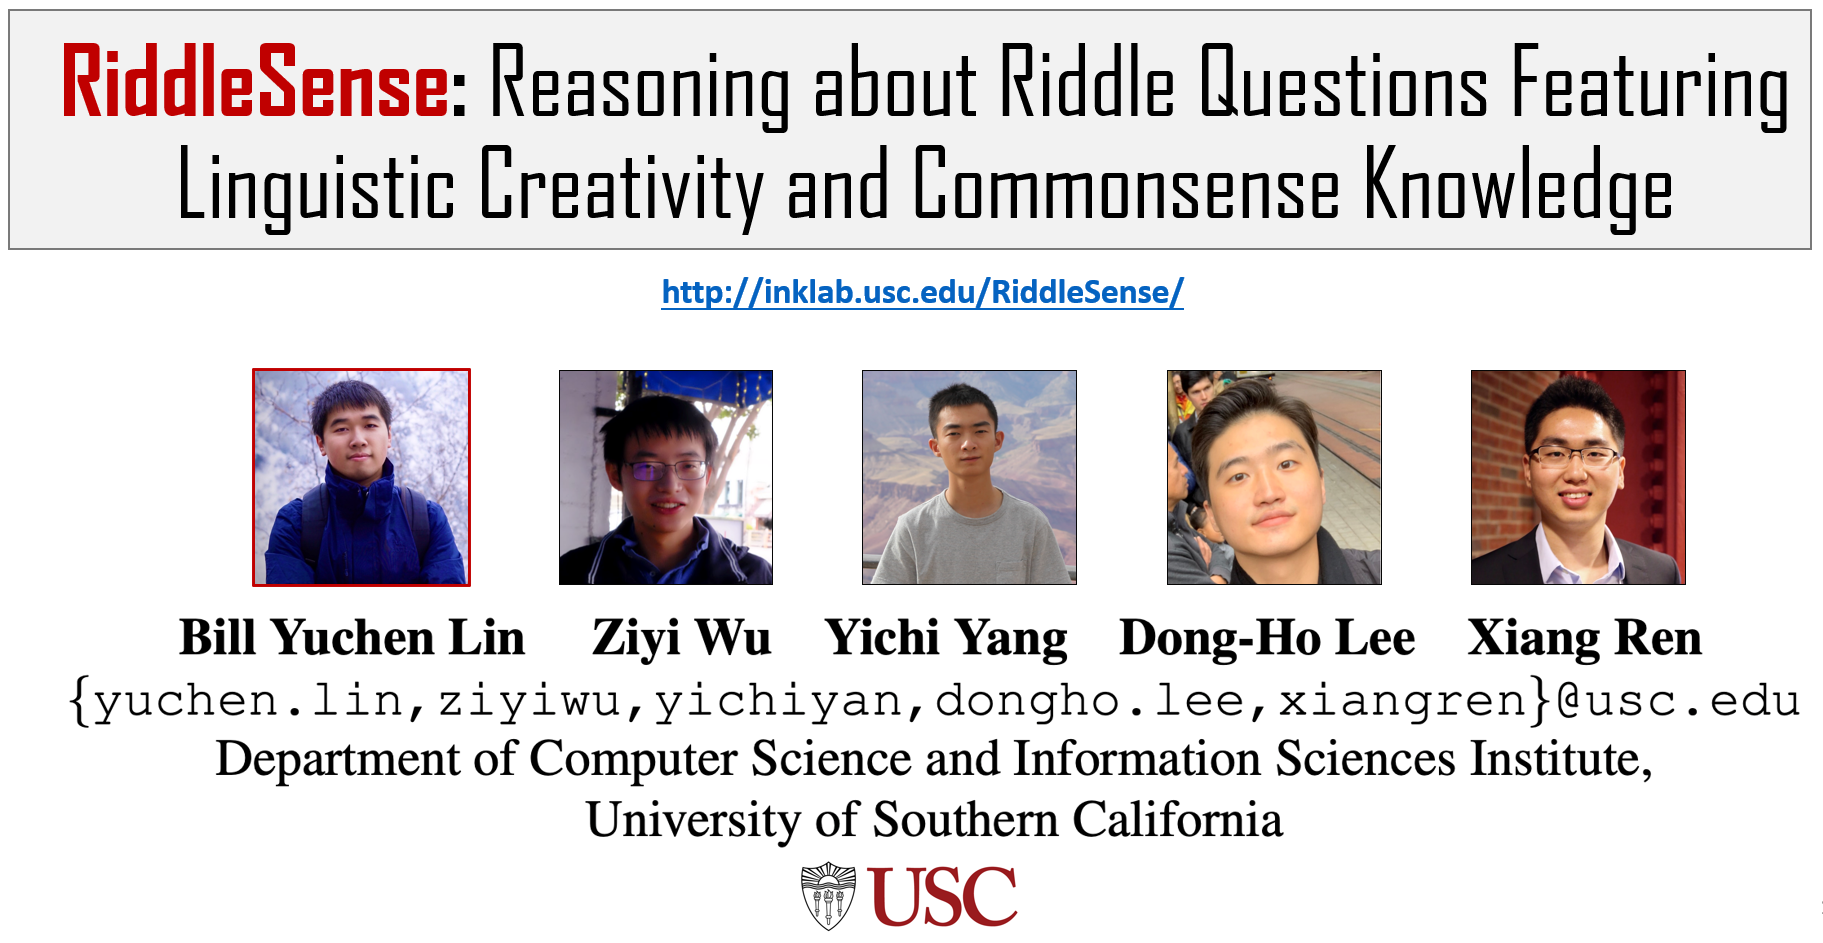
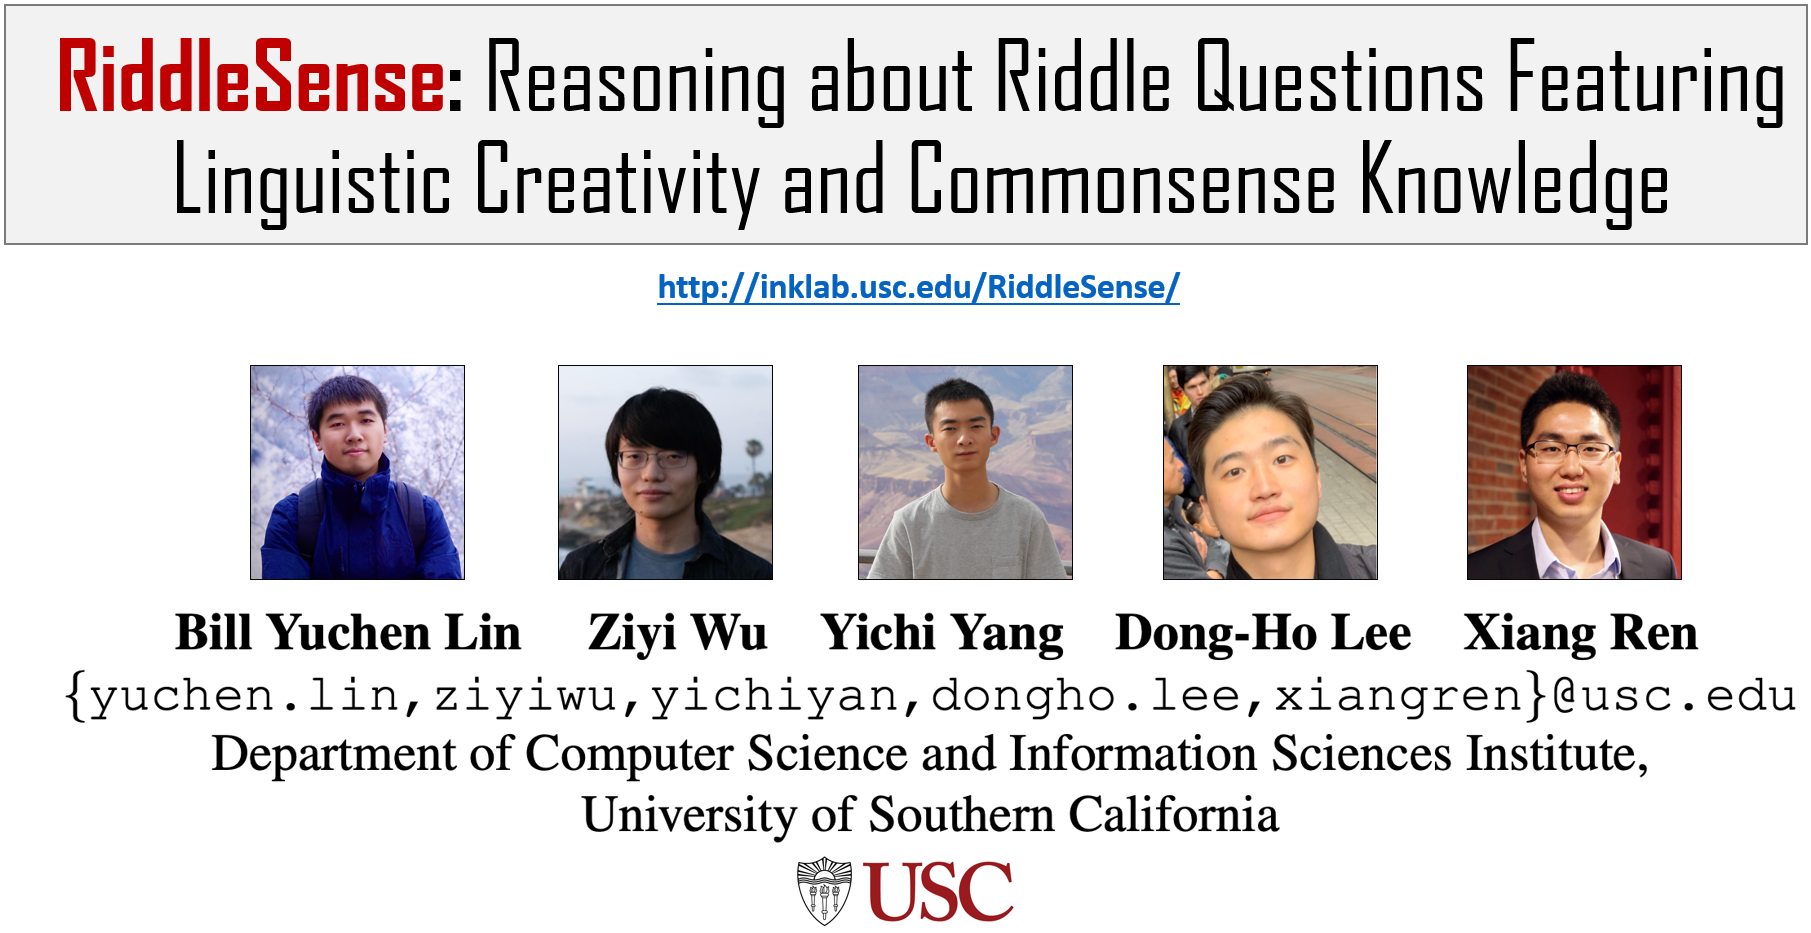
ziyi photo and the url

diff --git a/docs/index.md b/docs/index.md
@@ -56,7 +56,7 @@ p, li{
 
 # RiddleSense: Reasoning about Riddle Questions Featuring Linguistic Creativity and Commonsense Knowledge
 {: .no_toc style="font-weight: 600; color: #ce210c; font-family: 'Agency FB Bold', arial;"}
-✍ [***Bill Yuchen Lin***](https://yuchenlin.xyz/){: target="blank"}, [***Ziyi Wu***](), [***Yichi Yang***](), [***Dong-Ho Lee***](https://danny-lee.info/){: target="blank"}, [***Xiang Ren***](http://www-bcf.usc.edu/~xiangren/){: target="blank"} \
+✍ [***Bill Yuchen Lin***](https://yuchenlin.xyz/){: target="blank"}, [***Ziyi Wu***](https://www.linkedin.com/in/ziyiwuxyz/), [***Yichi Yang***](), [***Dong-Ho Lee***](https://danny-lee.info/){: target="blank"}, [***Xiang Ren***](http://www-bcf.usc.edu/~xiangren/){: target="blank"} \
 🏢 ***in Proceedings of ACL 2021 Findings***
 
 ---
